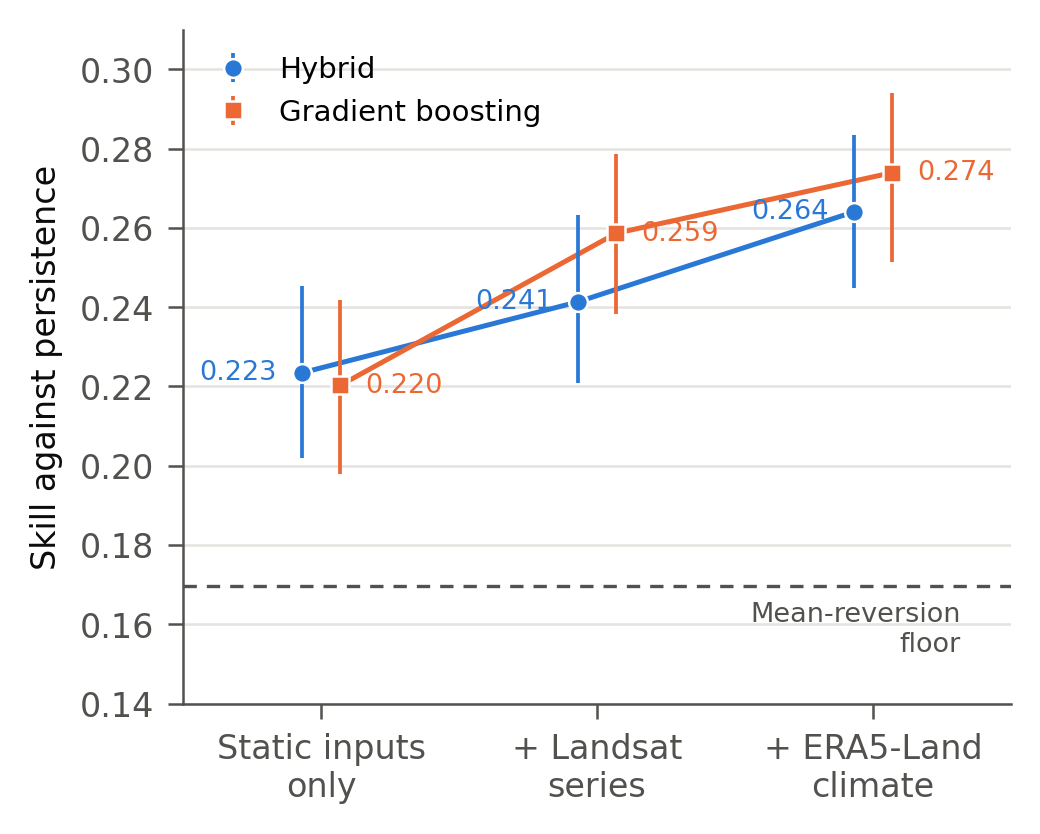
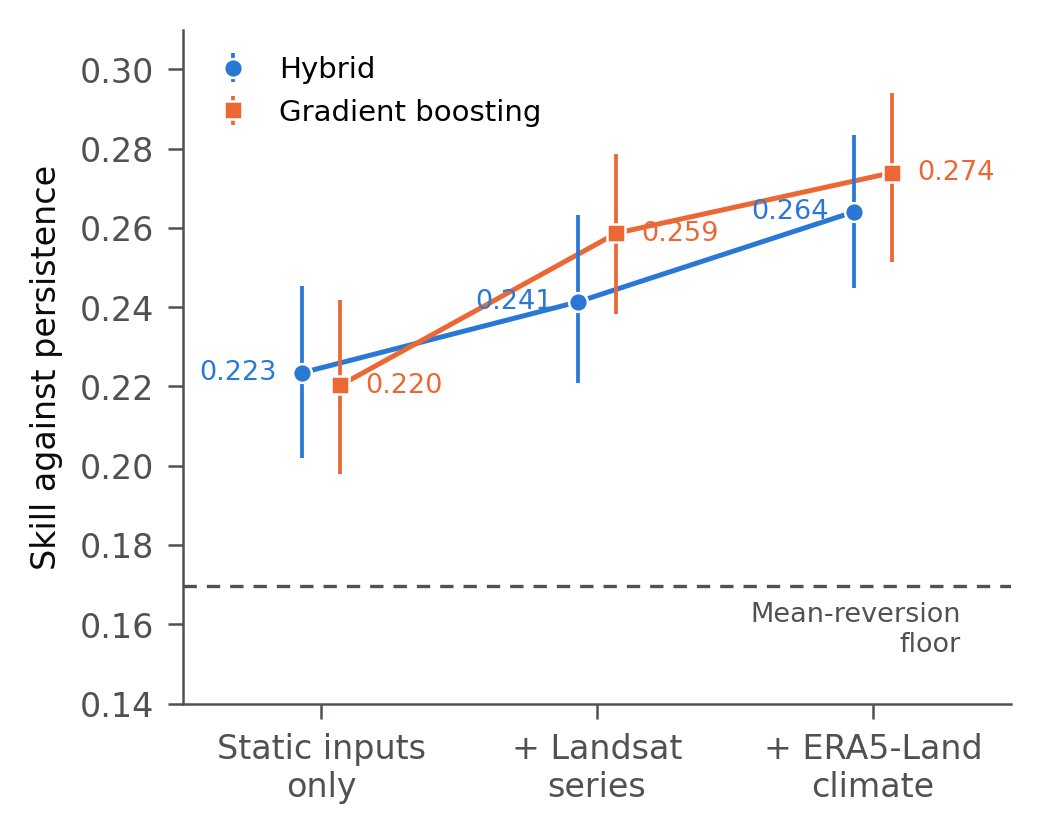
Figure 4 without grid lines

diff --git a/scripts/make_figures.py b/scripts/make_figures.py
@@ -234,7 +234,6 @@ def fig_inputs():
     ax.set_xlim(-0.5, len(steps) - 0.5)
     ax.set_ylim(0.14, 0.31)
     ax.set_ylabel("Skill against persistence")
-    _grid(ax, "y")
     ax.legend(frameon=False, fontsize=7, loc="upper left", handlelength=1.6)
     fig.tight_layout()
     return fig
